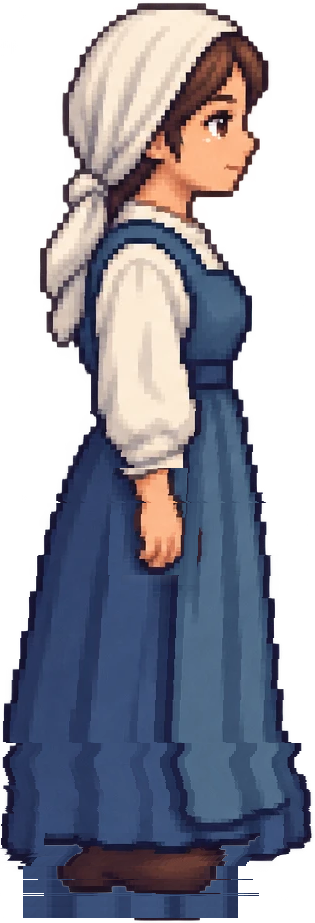
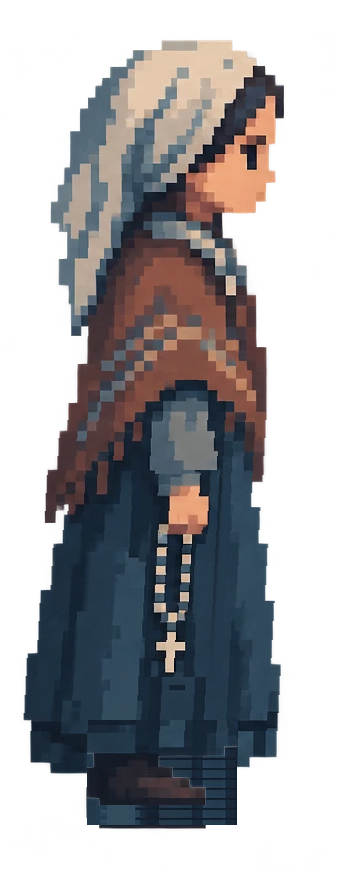
Replace Bernadette with new sheet (poncho, headscarf, rosary)
New sheet (side/front/back turnaround) is now the sole source for her
idle art and walk-cycle frames. Cropped at native resolution with a
generous 40px transparent margin on every side this time, specifically
to avoid repeating the previous sheet's boot/hem clipping bug. Walk
frames generated with the same cutout-puppet deformation technique
(independent boot lifts, hand counter-swing, waist-down skirt shear),
carrying forward both fixes from that bug (lift-only boots, clamped
per-row skirt shear), plus one new fix found while building this sheet's
frames: the source webp has scattered near-invisible compression specks
far outside the figure's silhouette, which were corrupting the skirt
shear's per-row edge clamp on rows where a speck landed near the canvas
edge, producing a jagged seam -- fixed with a proper alpha threshold.
The rosary one hand holds on each view is included in that hand's
shift/fill box so it swings rigidly with the hand.

Calibrated display height (144 framebuffer px) is unchanged -- her
scaling, collider, shadow, and movement code in Player.ts needed no
changes, since all of it already derives from the live texture's own
dimensions rather than hardcoded sizes.

Claude-Session: https://claude.ai/code/session_01SDh85j35maCe9Ux2UrYCxE

diff --git a/src/assets/player/bernadetteSprite.ts b/src/assets/player/bernadetteSprite.ts
@@ -13,51 +13,38 @@ import frontWalkBUrl from './bernadette_front_walk_b.png';
 /**
  * The maintainer's own finished artwork for the gameplay player character, recovered byte-for-byte
  * from the conversation that supplied it — never redrawn/recolored/redesigned. This is the
- * *third* full sprite-sheet swap, and the first at full native resolution: every earlier round
- * (the maroon-dress sheet, then this same blue-dress sheet) cropped each panel to its own alpha
- * bounding box and then **resized it down** to a fixed final height (34px, then 42px) before the
- * file ever reached the game -- the exact same anti-pattern `sisterSprite.ts` documents for its
- * own first round, and the direct answer to "why is every NPC pixelated" investigated and
- * confirmed in-session: `scaleX`/`scaleY` were both exactly `1` for every real-art character
- * (Bernadette included) because there was nothing left for Phaser to scale -- the detail loss had
- * already happened permanently inside the PNG.
+ * *fourth* full sprite-sheet swap (poncho, headscarf, and rosary, replacing the previous
+ * blue-dress-only sheet), at full native resolution like the round before it: side 337x870,
+ * front 398x868, back 379x861, each cropped with a generous 40px transparent margin on every side
+ * (not just a tight 2px alpha-bbox pad like the previous round's crops were) specifically so the
+ * walk-cycle deformation below has room to shift boots/hem without touching the canvas edge -- see
+ * the "clipped boot" bug this avoided, documented in this repo's git history on the previous
+ * sheet's own walk-cycle fix.
  *
- * Also confirmed in that same investigation: the 42px figure itself was never chosen for how the
- * art should look. It traces back through git history to a walk-cycle animation fix (`Frame size
- * increased from 21x34 to 26x42 ... to give the walk cycle enough resolution to animate the feet
- * independently`) and was then propagated by convention into every other character's own frame
- * height as a flat percentage of it (sister 85%, the boy 80%, Jeanne/the mother 100%) -- a
- * completely different kind of number (an animation-engineering minimum) being reused as if it
- * were a deliberate display-size decision.
+ * `BERNADETTE_FRAME_HEIGHT` is unchanged from the previous round (72px display / 144 actual
+ * framebuffer pixels at `PIXEL_SCALE`) per explicit instruction to keep her calibrated size when
+ * swapping in this new sheet -- nothing about this sheet's proportions made that technically
+ * necessary to revisit (native panel heights ~861-870px vs. the previous round's ~923-933px is a
+ * similar order of magnitude, keeping the same LINEAR-filtering minification ratio reasoning
+ * below valid). `side` is used as-is for `right` and horizontally flipped (`setFlipX`, in
+ * `spriteFacing.ts`) for `left`; `back` only for `up`; `front` only for `down`.
  *
- * This round instead keeps these source panels at their full native resolution (side 315x923,
- * front 353x933, back 327x924) and lets `Player.ts` scale them down at *render* time via the same
- * `targetHeight` technique `NpcActor.ts` already uses for the sister/mother/Jeanne/the boy --
- * `BERNADETTE_FRAME_HEIGHT` below is now a *display* height, decoupled from whatever resolution
- * the source panels actually are, not a size baked into the files. The actual display height
- * (72px, up from 42) was determined empirically, not guessed: the same source art was rendered at
- * several sizes (28x72 through 90x288 framebuffer pixels, at `PIXEL_SCALE`'s 2x zoom) and compared
- * directly against screenshots of this exact sheet -- 72px display height (144 actual framebuffer
- * pixels) was the smallest size at which her face/hair/dress read as cleanly defined as the source
- * art itself, with only diminishing returns beyond it. `side` is used as-is for `right` and
- * horizontally flipped (`setFlipX`, in `spriteFacing.ts`) for `left`; `back` only for `up`; `front`
- * only for `down`.
- *
- * Every walk-cycle frame (`_walk_a/b.png`, all 3 views) is a cutout-puppet deformation applied
- * directly to these full-resolution crops (no intermediate resize at all now, unlike the old
- * pipeline's "deform at ~60px tall, then downscale" two-step): independent shifts on the separate
- * left/right boot regions, opposite-arm counter-swing on the hand region(s), and a waist-down
- * skirt shear, same family of technique as `sisterSprite.ts`. Two refinements specific to this
- * sheet's own art, found by inspecting the actual deformed output rather than assumed: (1) the
- * dress has a genuine vertical shading gradient, so the flat tiled clone-fill behind a moved hand
- * (sister's own technique) left a visible seam here -- fixed with a gradient-aware fill that
- * blends between a reference strip sampled just above and just below the hole, tracking the
- * fabric's own shading instead of fighting it; (2) a boot sitting at the hem (not bare over
- * background, unlike the sister's) needs the *same* hole-fill before the shifted copy is pasted
- * back on top, or the vacated box shows as a transparent notch cut into the dress hem. The back
- * view's hands, by contrast, genuinely do hang past the dress's own side silhouette over bare
- * background (confirmed by inspecting the source art directly) and use a plain clear, same as the
- * sister's boots. Idle frames are the untouched crops, no deformation.
+ * Every walk-cycle frame (`_walk_a/b.png`, all 3 views) is the same cutout-puppet deformation
+ * family as the previous round and `sisterSprite.ts`: independent boot lifts, hand counter-swing,
+ * waist-down skirt shear. Two fixes carried forward from the previous round's own walk-cycle bug
+ * fix, applied here from the start rather than discovered after shipping: (1) boots only ever
+ * lift *up* (never pushed down past the canvas edge, which is what clipped them last round); (2)
+ * the skirt shear clamps each row's shift to what that row's own silhouette can safely take
+ * instead of a flat constant. One new fix specific to this sheet: the source webp has scattered
+ * near-invisible compression specks (alpha ~1/255) well outside the actual figure silhouette,
+ * confirmed by inspecting the raw pixel data directly -- a bare `alpha > 0` test in the skirt
+ * shear's per-row clamp picked these up as "real" silhouette content, and an occasional stray
+ * speck landing near the canvas edge on one row choked that row's shift down to ~1px against its
+ * neighbors' 7-8px, producing a jagged seam; fixed by thresholding at `alpha > 20`. One new
+ * element specific to this sheet: one hand on each view holds a rosary that hangs well below the
+ * hand itself (confirmed directly in the source art) -- that hand's shift/fill box extends down
+ * to cover the full chain, so it swings rigidly with the hand instead of staying fixed in place
+ * while the hand moves. Idle frames are the untouched crops, no deformation.
  */
 export const BERNADETTE_FRAME_HEIGHT = 72 as const;
 
@@ -87,18 +74,13 @@ export function preloadBernadetteSprite(scene: Phaser.Scene): void {
 /**
  * Registers the walk animations, once the textures above have loaded, and gives every texture
  * above `LINEAR` filtering (like the sister/buildings/trees, not the flat procedural characters
- * NEAREST is for). An earlier round of this file explicitly rejected LINEAR here, and that
- * rejection was correct *for the sprites that existed at the time*: those PNGs had already been
- * resized down to her tiny final display size (13-18px wide, 42px tall) before ever reaching the
- * game, so LINEAR was interpolating between a source that was already final-size -- smearing an
- * already-crisp image for no benefit. That reasoning no longer applies now that the source panels
- * are kept at full native resolution (315-353px wide, 923-933px tall) and scaled *down* to display
- * size at render time (`Player.ts`'s `targetHeight`): at that real ~6.4x minification ratio (full
- * native height / the actual framebuffer pixels she ends up drawn at, i.e. native height /
- * (`BERNADETTE_FRAME_HEIGHT` x `PIXEL_SCALE`)) -- comfortably inside the safe range
- * buildings/trees already use (~8-12x) -- LINEAR is what makes the downscale read as smooth/anti
- * -aliased instead of aliased, exactly the same reasoning `sisterSprite.ts` documents for its own
- * texture.
+ * NEAREST is for) -- still correct with this (fourth) sheet's native panels (337-398px wide,
+ * 861-870px tall) scaled *down* to display size at render time (`Player.ts`'s `targetHeight`): at
+ * that real ~6x minification ratio (full native height / the actual framebuffer pixels she ends
+ * up drawn at, i.e. native height / (`BERNADETTE_FRAME_HEIGHT` x `PIXEL_SCALE`)) -- comfortably
+ * inside the safe range buildings/trees already use (~8-12x) -- LINEAR is what makes the downscale
+ * read as smooth/anti-aliased instead of aliased, exactly the same reasoning `sisterSprite.ts`
+ * documents for its own texture.
  */
 export function registerBernadetteSprite(scene: Phaser.Scene): void {
   ALL_FACINGS.forEach((facing) => {
